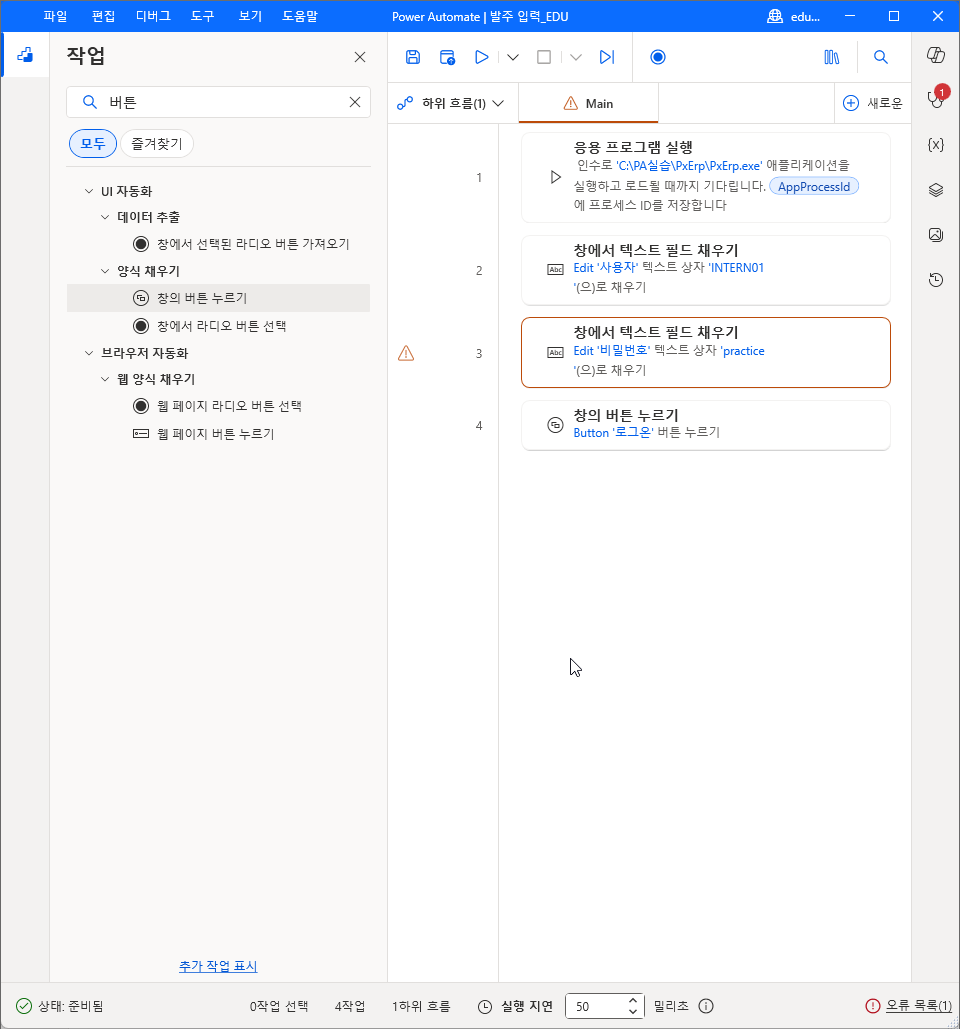
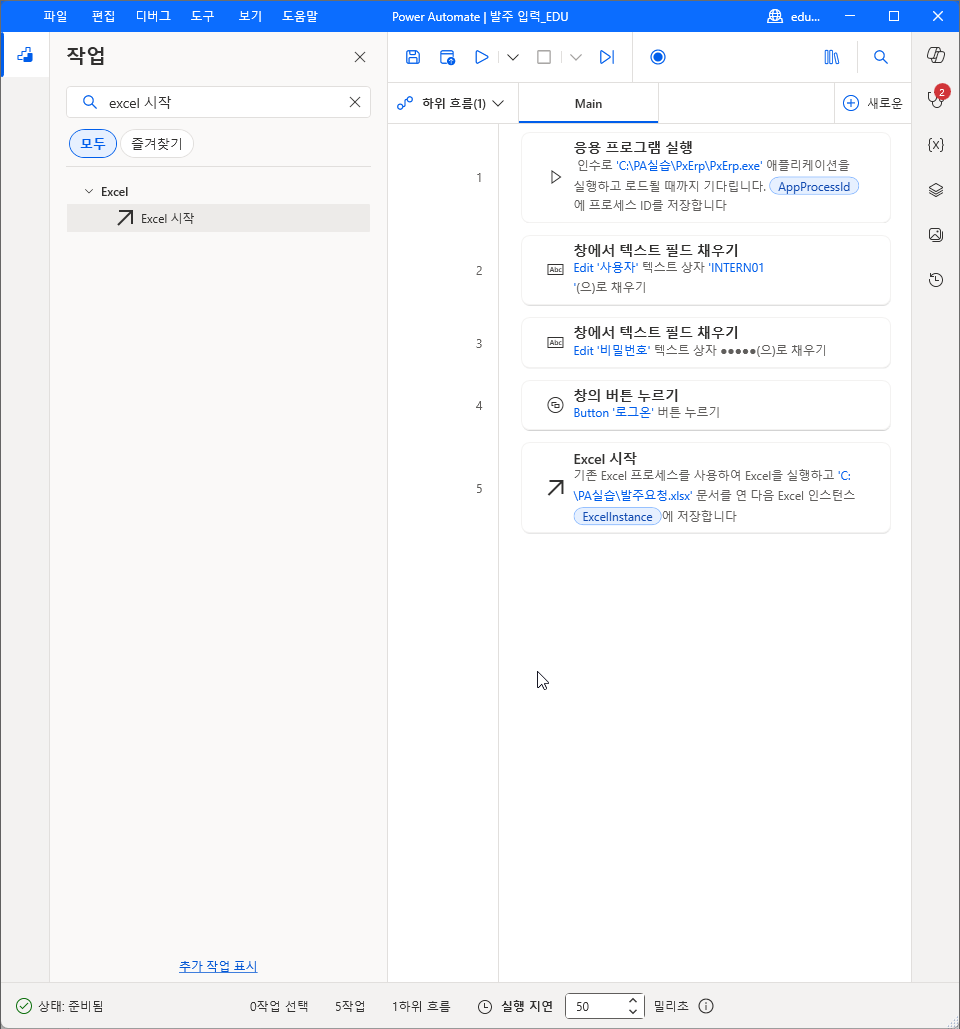
Lab 7 15번: 비밀번호를 직접 암호화 텍스트 입력으로, 16번 완료 컷 교체

diff --git a/docs/lab7.md b/docs/lab7.md
@@ -34,7 +34,9 @@ nav_order: 8
        - ✔ 1~16번(2026-10-06). 작업 이름 「응용 프로그램 실행」(시스템) · 「창에서 텍스트 필드 채우기」 · 「창의 버튼 누르기」(UI 자동화 › 양식 채우기).
          칸 이름 「응용 프로그램 시작 후」 → 「응용 프로그램 로드 대기」(시간 제한 0) · 「텍스트 상자」 · 「채울 텍스트」 · 「UI 요소」 · 「작업 시뮬레이션」.
          요소 표시는 AutomationId 가 아니라 이름이다 — Window 'PX-ERP 로그온' › Edit '사용자' · Edit '비밀번호' · Button '로그온'(UIA).
-         비밀번호 줄에 경고 1건 — 「삽입된 텍스트 상자는 암호 필드입니다 …」. 경고만 있고 실행은 된다. 암호화된 텍스트로 바꿀지 미정 -->
+         비밀번호 칸은 암호 필드라 일반 텍스트로 두면 경고 — 「삽입된 텍스트 상자는 암호 필드입니다 … '직접 암호화된 텍스트 입력' 옵션을 선택해야 합니다.
+         또는 … '민감'으로 플래그가 지정된 변수를 입력으로 사용할 수 있습니다」. 15번에서 「직접 암호화 텍스트 입력」으로 바꿔 경고를 없앤다(제작자 2026-10-06).
+         민감 변수 쪽은 다루지 않는다 -->
 
 > **이번 랩 완성물**: 발주요청 파일 세 건을 PX-ERP 발주 생성(PO01) 화면에 하나씩 입력하고, 상태바 결과를 파일에 적어 남기는 Desktop 흐름 `발주 입력_HGD`
 >
@@ -195,7 +197,7 @@ nav_order: 8
 
     ![비밀번호 입력칸의 빨간 테두리](../assets/lab7/lab7-15b.png)
 
-    **채울 텍스트**에 아래를 넣고 **저장**을 누릅니다.
+    **채울 텍스트**에 아래를 넣습니다.
 
     ```
     practice
@@ -203,9 +205,17 @@ nav_order: 8
 
     ![창에서 텍스트 필드 채우기 — 텍스트 상자 Edit '비밀번호' · 채울 텍스트 practice](../assets/lab7/lab7-15c.png)
 
-16. 작업 검색 칸에 `버튼` 을 입력하고, **UI 자동화** › **양식 채우기** 아래 **창의 버튼 누르기**를 3번 줄 아래로 끌어다 놓습니다. 3번 줄의 경고 삼각형은 비밀번호 칸이 암호 필드라서 뜨는 것이고, 실행에는 지장이 없습니다.
+    비밀번호 칸은 암호 필드라 일반 텍스트로 두면 「삽입된 텍스트 상자는 암호 필드입니다」 경고가 뜹니다. **채울 텍스트** 왼쪽 위 드롭다운을 열고 **직접 암호화 텍스트 입력**을 고릅니다.
 
-    ![창의 버튼 누르기를 3번 줄 아래로 끄는 모습 · 오류 목록의 암호 필드 경고](../assets/lab7/lab7-16.png)
+    ![경고 「삽입된 텍스트 상자는 암호 필드입니다」 · 채울 텍스트 드롭다운의 직접 암호화 텍스트 입력](../assets/lab7/lab7-15d.png)
+
+    입력한 값이 ●로 가려집니다. **저장**을 누릅니다.
+
+    ![채울 텍스트 — 직접 암호화 텍스트 입력 · ●●●●●●●●](../assets/lab7/lab7-15e.png)
+
+16. 작업 검색 칸에 `버튼` 을 입력하고, **UI 자동화** › **양식 채우기** 아래 **창의 버튼 누르기**를 3번 줄 아래로 끌어다 놓습니다.
+
+    ![창의 버튼 누르기를 3번 줄 아래로 끄는 모습](../assets/lab7/lab7-16.png)
 
     **UI 요소** 드롭다운에서 **UI 요소 추가**를 누릅니다.
 
@@ -215,9 +225,9 @@ nav_order: 8
 
     ![로그온 단추의 빨간 테두리와 Button 표시](../assets/lab7/lab7-16c.png)
 
-    **완료 기준**: 1 응용 프로그램 실행 · 2 Edit '사용자' 에 INTERN01 · 3 Edit '비밀번호' 에 practice · 4 Button '로그온' 버튼 누르기.
+    **완료 기준**: 1 응용 프로그램 실행 · 2 Edit '사용자' 에 INTERN01 · 3 Edit '비밀번호' 에 ●●●●● · 4 Button '로그온' 버튼 누르기. 경고 표시가 없다.
 
-    ![1~4번 줄 — 응용 프로그램 실행 · 텍스트 필드 채우기 둘 · 창의 버튼 누르기](../assets/lab7/lab7-16d.png)
+    ![1~4번 줄 — 3번 줄 비밀번호가 ●●●●● 로 가려진 모습](../assets/lab7/lab7-16d.png)
 {: start="8" }
 
 ## 단계 ③ 요청 읽기
